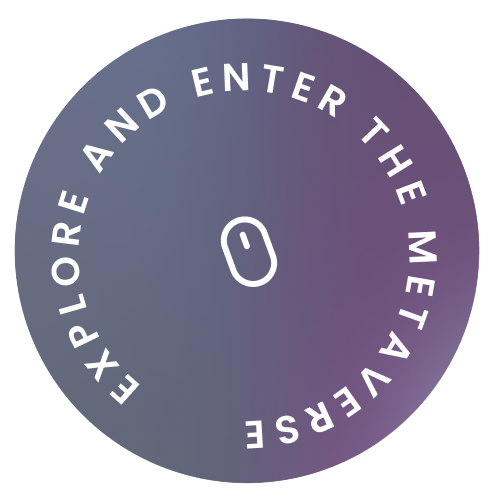
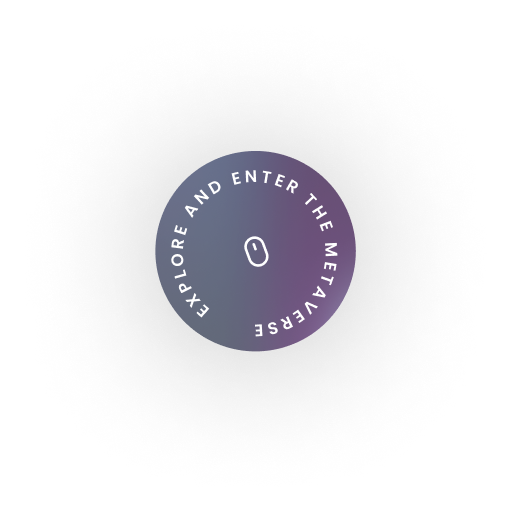
[chore] adjust assets and styles

diff --git a/sections/Hero.jsx b/sections/Hero.jsx
@@ -31,18 +31,18 @@ const Hero = () => (
         variants={slideIn("right", "tween", 0.2, 1)}
         className="relative w-full md:-mt-[20px] -mt-[12px]"
       >
-        <div className="absolute w-full h-[300px] hero-gradient rounded-tl-[140px] z-[0] -top-[30px]" />
+        <div className="absolute w-full h-[300px] hero-gradient rounded-tl-[140px] rounded-tr-[2rem] z-[0] -top-[30px]" />
         <img
           src="cover.png"
           alt="cover"
-          className="w-full sm:h-[500px] h-[350px] object-cover rounded-tl-[140px] z-10 relative"
+          className="w-full sm:h-[500px] h-[350px] object-cover rounded-tl-[140px] rounded-b-[2rem] rounded-tr-[2rem] z-10 relative"
         />
         <a href="#explore">
-          <div className="w-full flex justify-end sm:-mt-[70px] -mt-[50px] pr-[40px] relative z-10">
+          <div className="w-full flex justify-end sm:-mt-[120px] -mt-[70px] sm:pr-[40px] pr-0 relative z-10">
             <img
               src="stamp.png"
               alt="stamp"
-              className="sm:w-[155px] w-[100px] sm:h-[155px] h-[100px] object-contain"
+              className="sm:w-[255px] w-[155px] sm:h-[255px] h-[155px] object-contain"
             />
           </div>
         </a>

diff --git a/sections/Feedback.jsx b/sections/Feedback.jsx
@@ -41,12 +41,12 @@ const Feedback = () => (
         />
         <motion.div
           variants={zoomIn(0.4, 1)}
-          className="lg:block hidden absolute -left-[11%] top-[3%] cursor-pointer"
+          className="lg:block hidden absolute -left-[16%] top-0 cursor-pointer"
         >
           <img
             src="stamp.png"
             alt="stamp"
-            className="w-[155px] h-[155px] object-contain"
+            className="w-[255px] h-[255px] object-contain"
           />
         </motion.div>
       </motion.div>

diff --git a/utils/motion.js b/utils/motion.js
@@ -4,8 +4,6 @@ export const navVariants = {
     y: -50,
     transition: {
       type: 'spring',
-      stiffness: 300,
-      damping: 140,
     },
   },
   show: {
@@ -13,8 +11,8 @@ export const navVariants = {
     y: 0,
     transition: {
       type: 'spring',
-      stiffness: 80,
-      delay: 1,
+      stiffness: 100,
+      delay: 0.5,
     },
   },
 };

diff --git a/pages/index.js b/pages/index.js
@@ -11,7 +11,7 @@ import {
 } from "../sections";
 
 const Page = () => (
-  <div className="bg-primary-black overflow-x-hidden">
+  <div className="bg-primary-black overflow-hidden">
     <Navbar />
     <Hero />
     <div className="relative">
